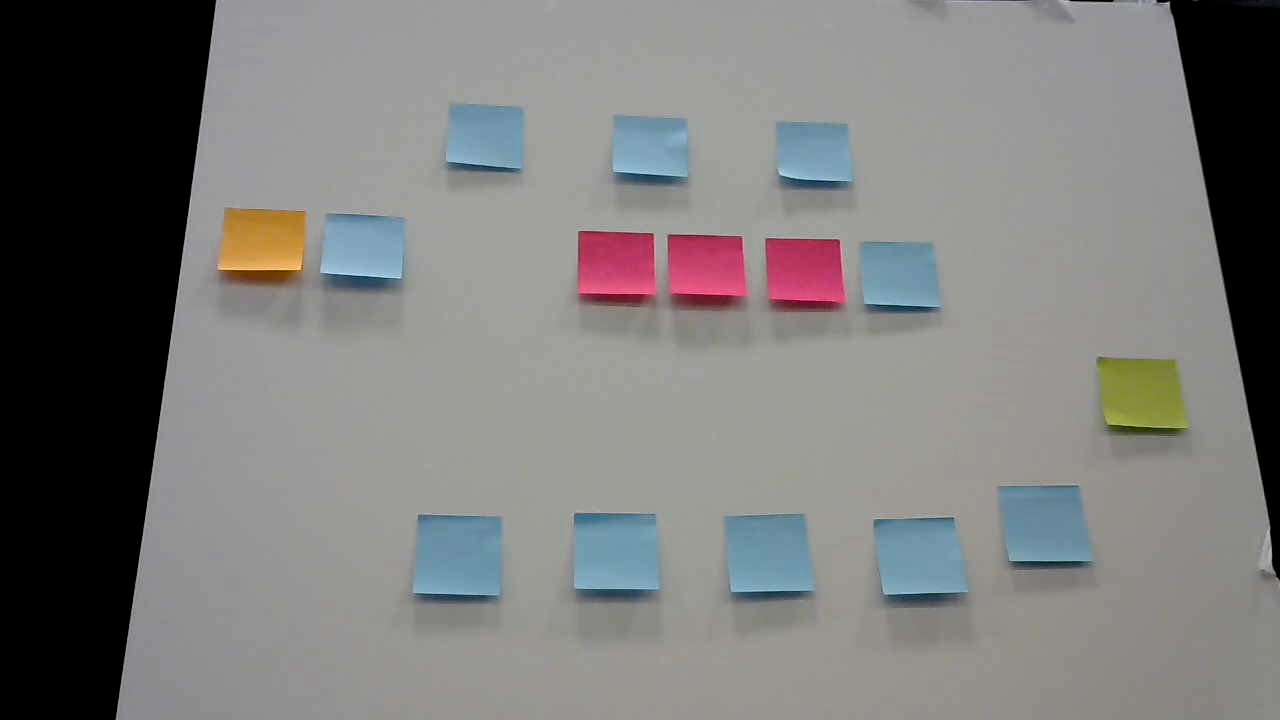
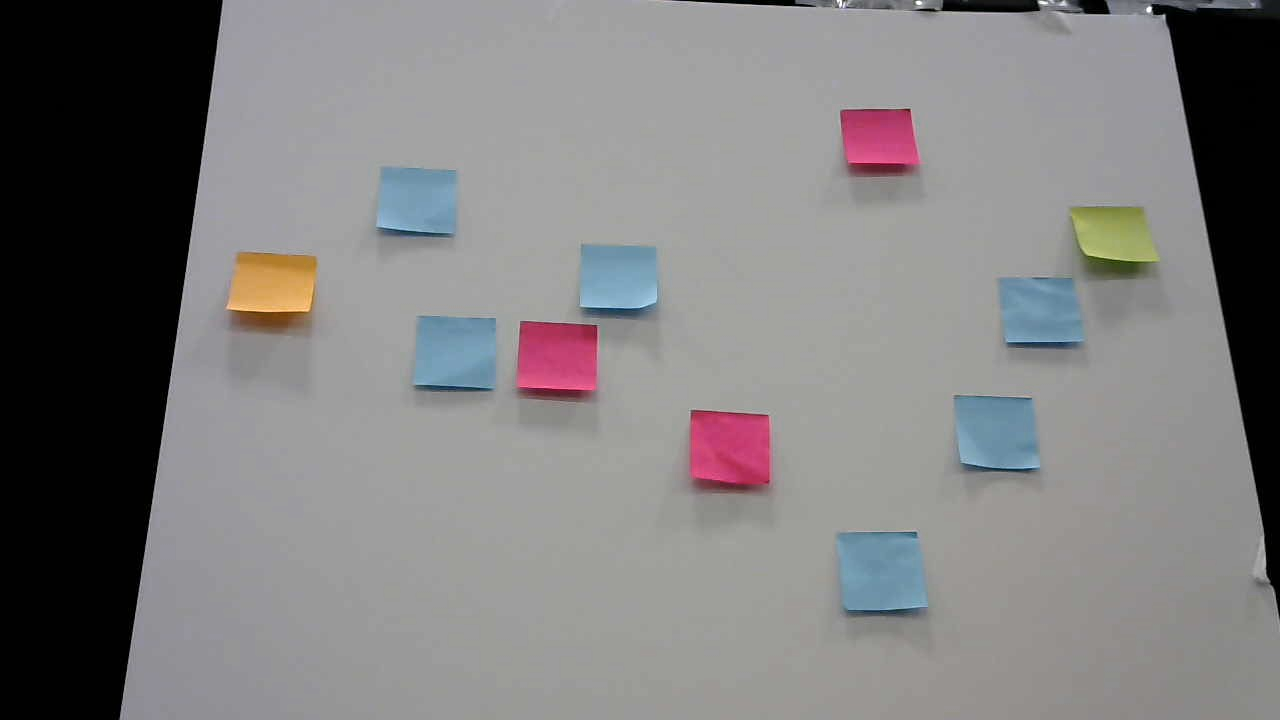
Push of actual game code

diff --git a/StickyAR/stickys.py b/StickyAR/stickys.py
@@ -144,6 +144,36 @@ def clearSticky():
 	if(os.path.exists(state_image_path)):
 		os.remove(state_image_path)
 
+def reSticky():
+	clearSticky()
+	camera = cv.VideoCapture(1)
+	return_value, state_image = camera.read()
+	camera.release()
+	cv.imwrite(state_image_path, state_image)
+	
+	state_image = cv.imread("state/current_state.png")
+
+	calib_image = cv.imread("state/current_calib.png")
+	transform_matrix = genCalTransformMatrix(calib_image, red, 90, 80, grid_width, grid_height)
+
+	state_image_transformed = cv.warpPerspective(state_image, transform_matrix, (grid_width, grid_height))
+
+	bounding_box_coords, _ = lookForGreen(state_image_transformed, transform_matrix, grid_width, grid_height)
+	orange_coords, _ = lookForOrange(state_image_transformed, transform_matrix, grid_width, grid_height)
+	pink_coords, _ = lookForPink(state_image_transformed, transform_matrix, grid_width, grid_height)
+	blue_coords, _ = lookForBlue(state_image_transformed, transform_matrix, grid_width, grid_height)
+
+	for coord in orange_coords:
+		bounding_box_coords.append(coord)
+
+	for coord in pink_coords:
+		bounding_box_coords.append(coord)
+
+	for coord in blue_coords:
+		bounding_box_coords.append(coord)
+
+	return bounding_box_coords
+
 def updateSticky():
 	if(not os.path.exists(state_image_path)):
 		camera = cv.VideoCapture(1)
@@ -157,6 +187,7 @@ def updateSticky():
 	transform_matrix = genCalTransformMatrix(calib_image, red, 90, 80, grid_width, grid_height)
 
 	state_image_transformed = cv.warpPerspective(state_image, transform_matrix, (grid_width, grid_height))
+	cv.imwrite("state_image_transformed.png", state_image_transformed)
 
 	bounding_box_coords, _ = lookForGreen(state_image_transformed, transform_matrix, grid_width, grid_height)
 	orange_coords, _ = lookForOrange(state_image_transformed, transform_matrix, grid_width, grid_height)

diff --git a/StickyAR/StickyJump.py b/StickyAR/StickyJump.py
@@ -2,7 +2,7 @@ import pygame as pg
 import time
 import random
 from settings import *
-# from stickys import updateSticky, clearSticky, calibrate, uncalibrate
+from stickys import updateSticky, clearSticky, calibrate, uncalibrate
 
 from sprites import *
 from time import sleep
@@ -59,9 +59,13 @@ class StickyJump:
                 
             self.all_sprites.add(p)
             
-    def new(self):
+    def new(self, resticky=False):
         """Start a new game"""
         #Define groups and subgroups of platforms
+        if resticky:
+            print("attempting to resticky")
+            self.cv_data = updateSticky()
+            print(self.cv_data)
         self.all_sprites = pg.sprite.Group()
         self.safeplatforms = pg.sprite.Group()
         self.spawnplatform = pg.sprite.GroupSingle()
@@ -123,7 +127,7 @@ class StickyJump:
 
     def resticky(self):
         print("restickying!")
-        self.new()
+        self.new(True)
 
         #extraneous for now
         delay = 250 # 500ms = 0.5s
